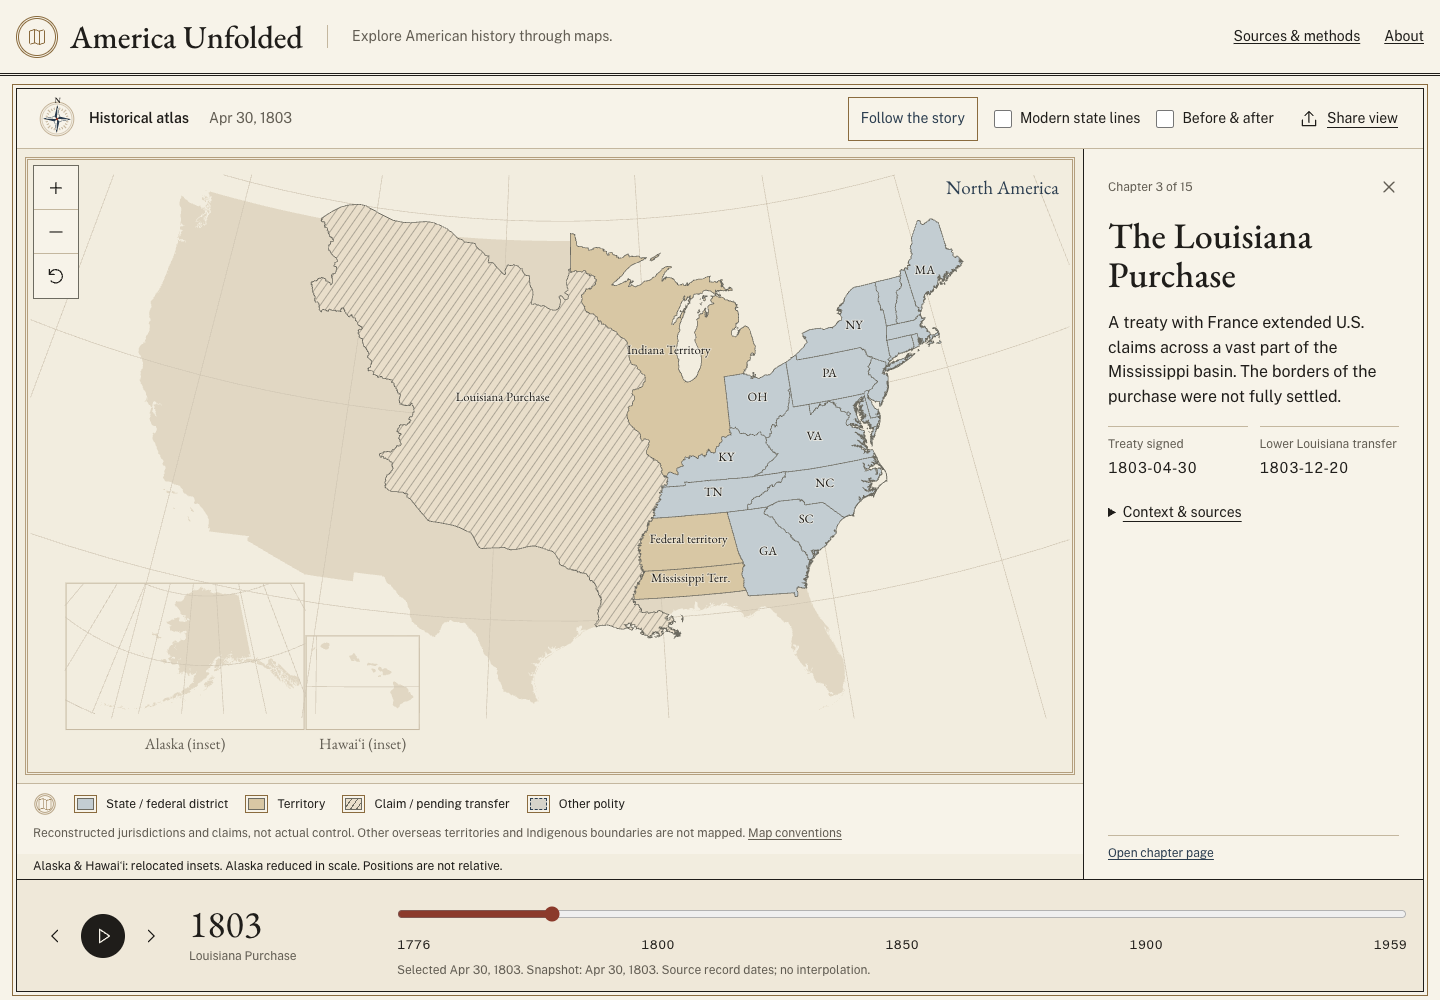
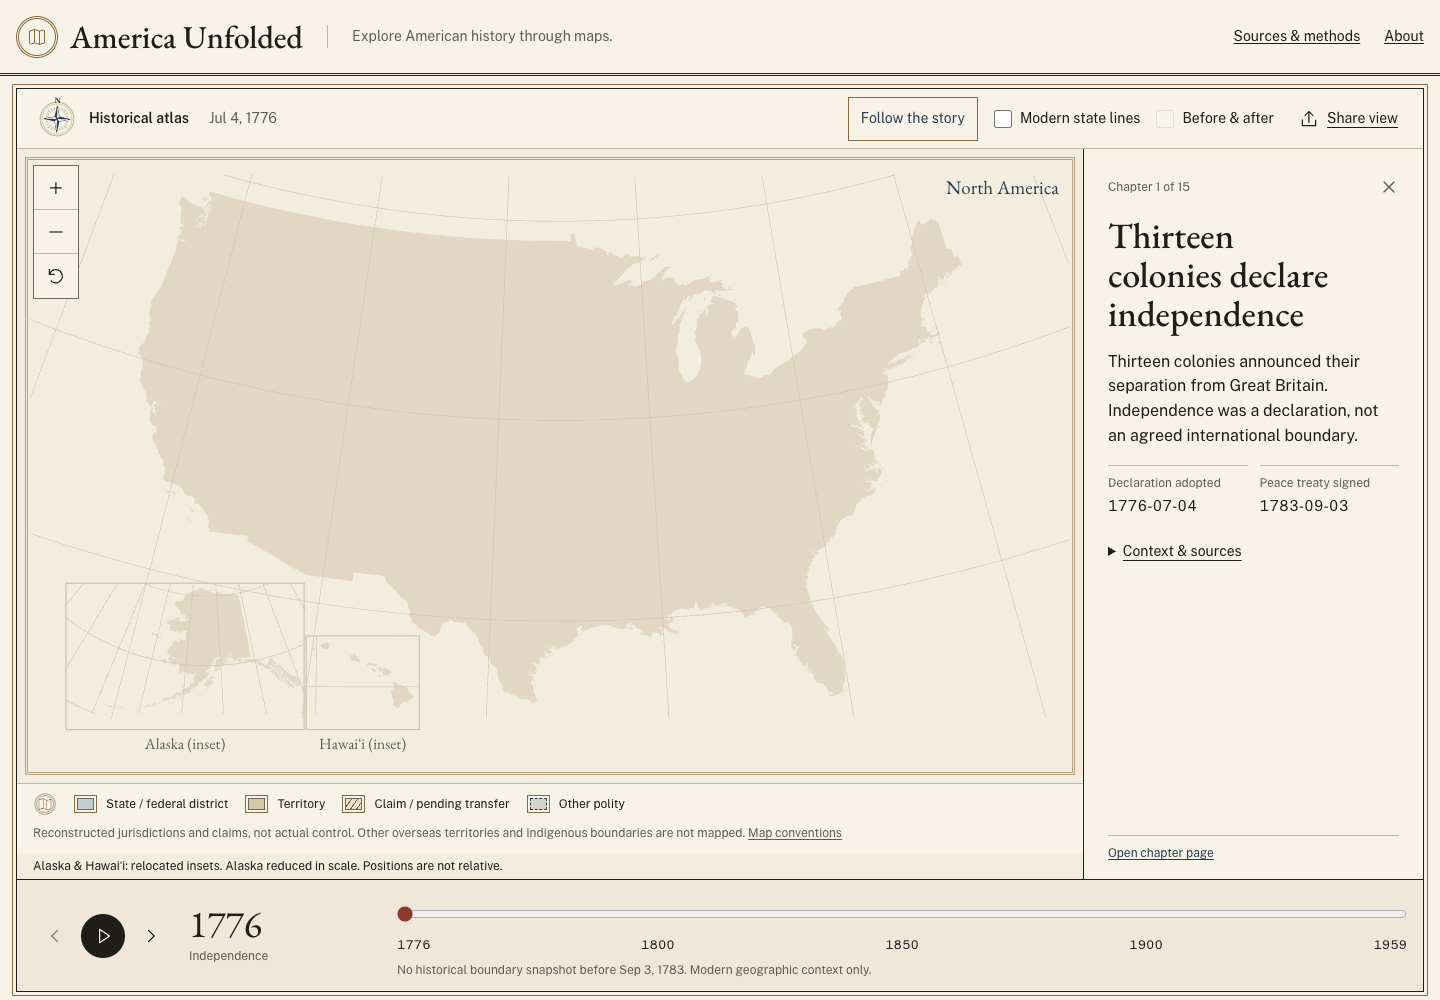
Open the atlas at the 1776 starting point

diff --git a/docs/VERIFICATION.md b/docs/VERIFICATION.md
@@ -73,3 +73,9 @@ See MAP-FIRST-UPDATE.md for the layout changes, preservation matrix, fresh measu
 ## Annual playback follow-up
 
 Playback now advances by year, not chapter. The final build, 9 data/timeline checks, 26 browser checks and 17 transition checks passed. Added browser cases cover consecutive years, unchanged SVG through a quiet year, pause/share-URL reload restoration and automatic stop at August 21, 1959 in Chrome and iPhone-emulated WebKit. A full-range unit check covers every year from 1776 through 1959. See TIMELINE-TRANSITIONS.md and evidence/transition-results.json. No historical source, boundary geometry or licensing record changed. Local preview and the existing PR remain the only delivery targets.
+
+## Start-year follow-up
+
+The unparameterized home page now opens the Independence chapter at July 4, 1776, rather than using Louisiana Purchase as its default. The template, app fallback and exported default ID share the same Independence entry, and the server-rendered chapter position is calculated from that entry. Existing exact event paths and saved query dates still restore their requested view. The pre-1783 map remains modern geographic context with an explicit missing-historical-snapshot explanation; no 1776 boundary was added.
+
+Build and 9 data/timeline checks passed. All 27 browser checks passed, including a fresh home load at 1776, chapter 1, reload, and the first annual step to 1777 with no invented geometry. All 17 transition checks passed using an explicit Louisiana chapter fixture for the existing geometry scenarios. The shortened pre-1783 caption keeps the 900px desktop timeline within the first viewport. Chrome and iPhone-emulated WebKit remain browser-engine tests, not physical Safari hardware certification.
